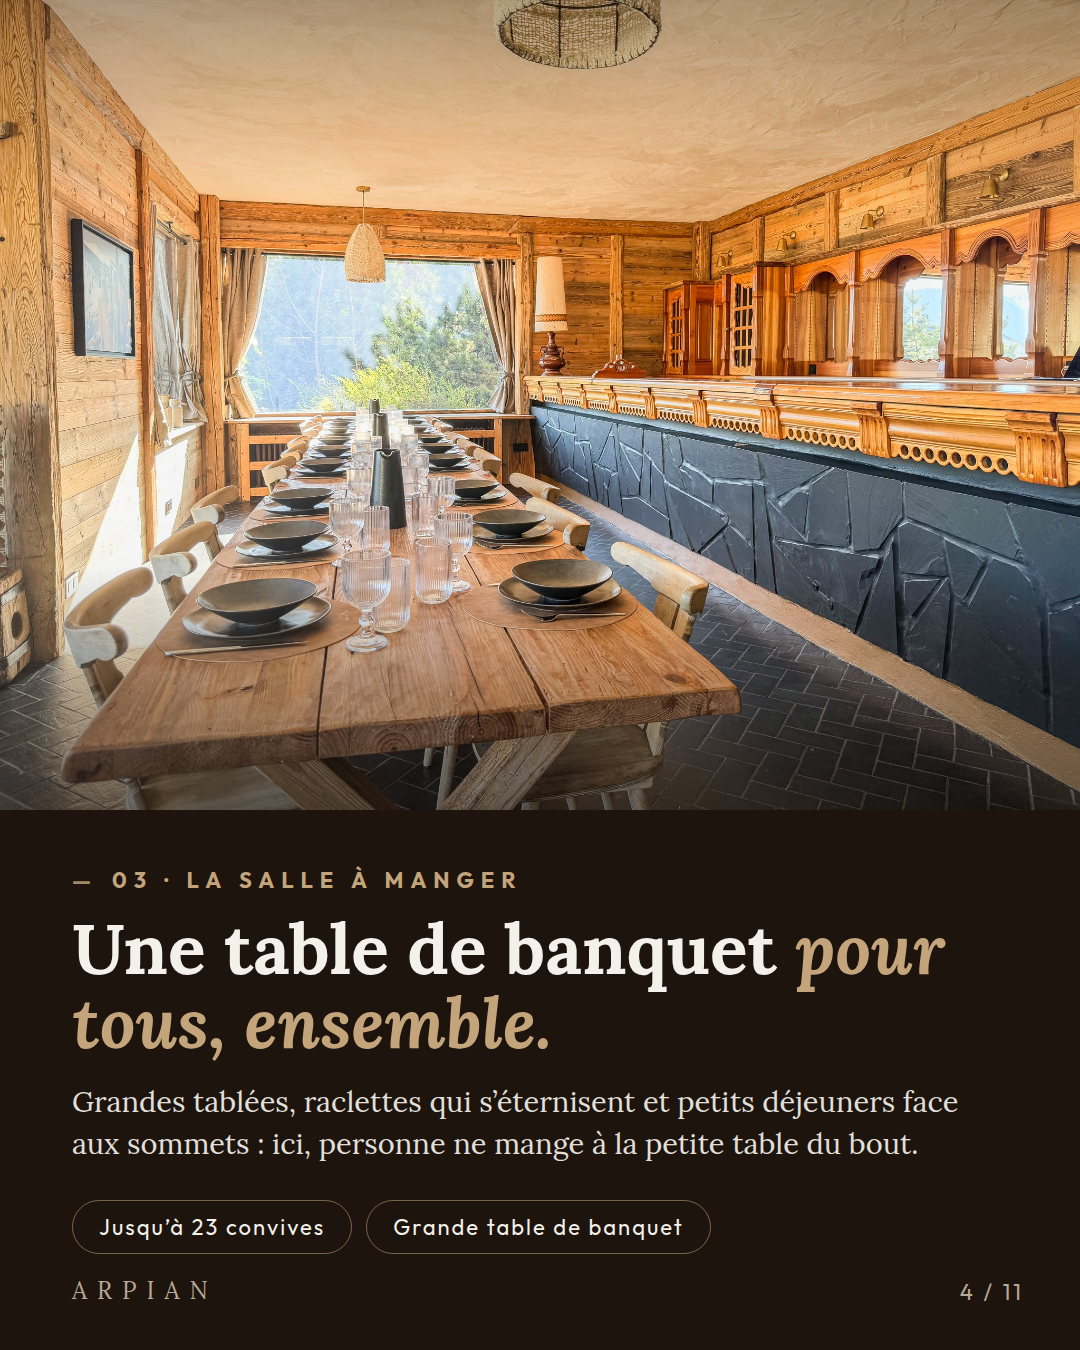
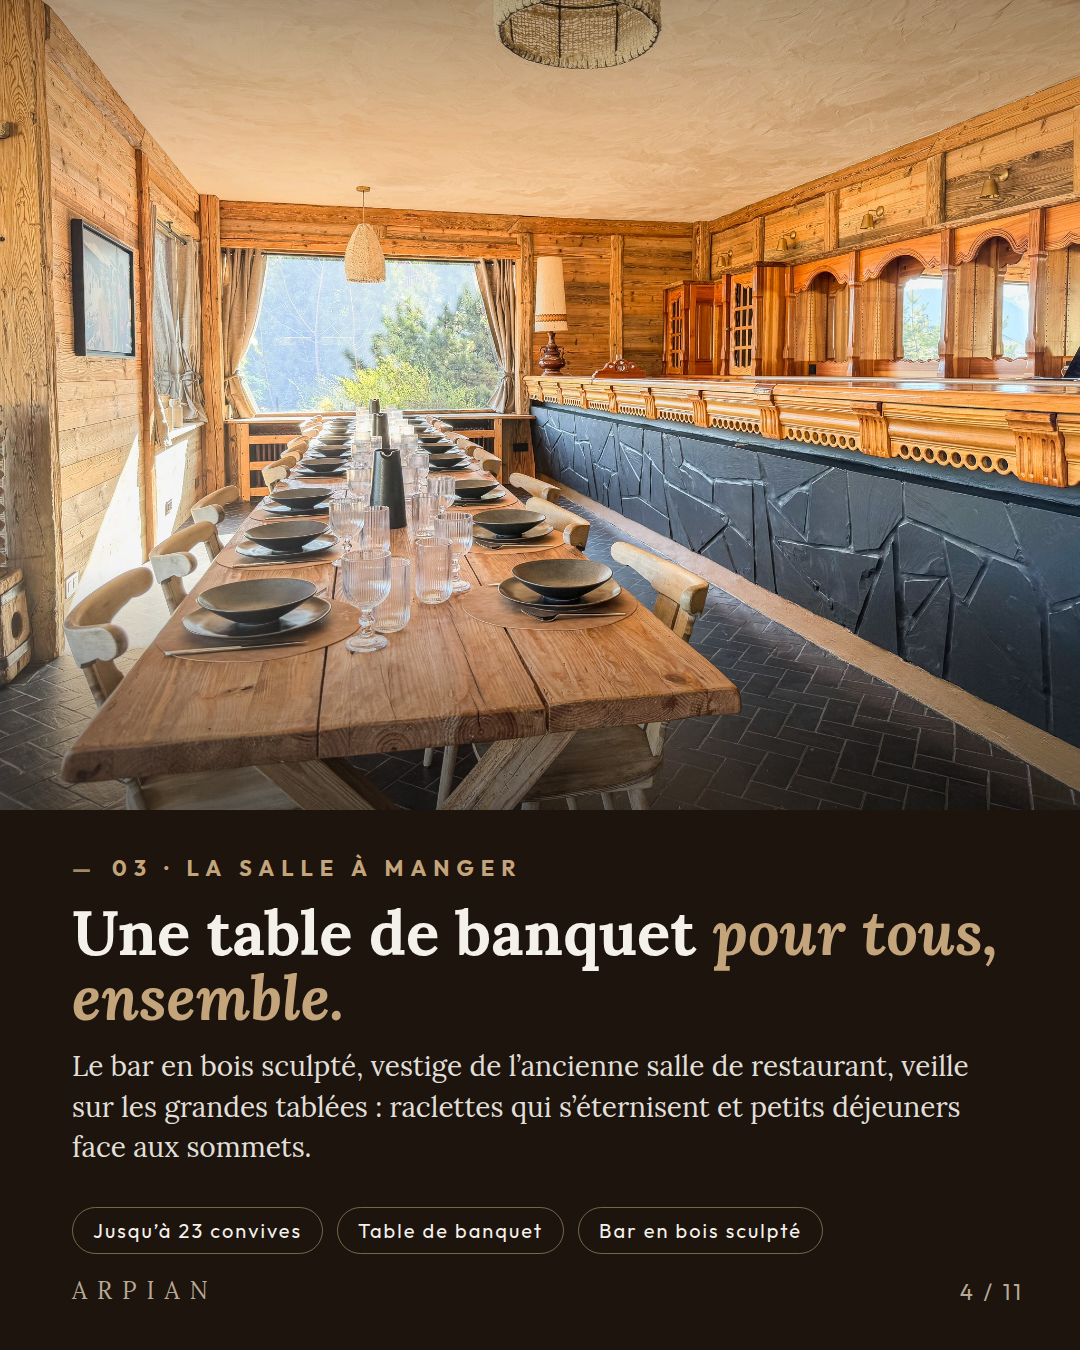
Dining room slide: carved wooden bar from the old restaurant
Description and chips now mention the carved bar, a relic of the
former hotel restaurant room.

Claude-Session: https://claude.ai/code/session_01Y944qe7GtTpnCjNEws8d2U

Changed region(s): [[0.0611, 0.6222, 0.9167, 0.8711], [0.0917, 0.9022, 0.7639, 0.9333]]

diff --git a/carrousel-linkedin/slides.html b/carrousel-linkedin/slides.html
@@ -77,6 +77,10 @@
   #s2 .room-title { font-size:62px; margin-bottom:16px; }
   #s2 .desc { font-size:28px; }
   #s2 .chip { font-size:20px; padding:10px 20px; }
+  #s4 .panel { padding-top:44px; }
+  #s4 .room-title { font-size:62px; margin-bottom:16px; }
+  #s4 .desc { font-size:28px; }
+  #s4 .chip { font-size:20px; padding:10px 20px; }
   #s5 .panel { padding-top:44px; }
   #s5 .desc { font-size:28px; }
   #s5 .chip { font-size:20px; padding:10px 20px; }
@@ -146,8 +150,8 @@
   <div class="panel">
     <div class="eyebrow"><span class="dash">&mdash;</span>03 &middot; La salle &agrave; manger</div>
     <div class="room-title">Une table de banquet <span class="it">pour tous, ensemble.</span></div>
-    <div class="desc">Grandes tabl&eacute;es, raclettes qui s&rsquo;&eacute;ternisent et petits d&eacute;jeuners face aux sommets&nbsp;: ici, personne ne mange &agrave; la petite table du bout.</div>
-  <div class="chips"><div class="chip">Jusqu&rsquo;&agrave; 23 convives</div><div class="chip">Grande table de banquet</div></div>
+    <div class="desc">Le bar en bois sculpt&eacute;, vestige de l&rsquo;ancienne salle de restaurant, veille sur les grandes tabl&eacute;es&nbsp;: raclettes qui s&rsquo;&eacute;ternisent et petits d&eacute;jeuners face aux sommets.</div>
+  <div class="chips"><div class="chip">Jusqu&rsquo;&agrave; 23 convives</div><div class="chip">Table de banquet</div><div class="chip">Bar en bois sculpt&eacute;</div></div>
   <div class="brand-corner">ARPIAN</div>
   <div class="pagenum">4 / 11</div>
 </div>
